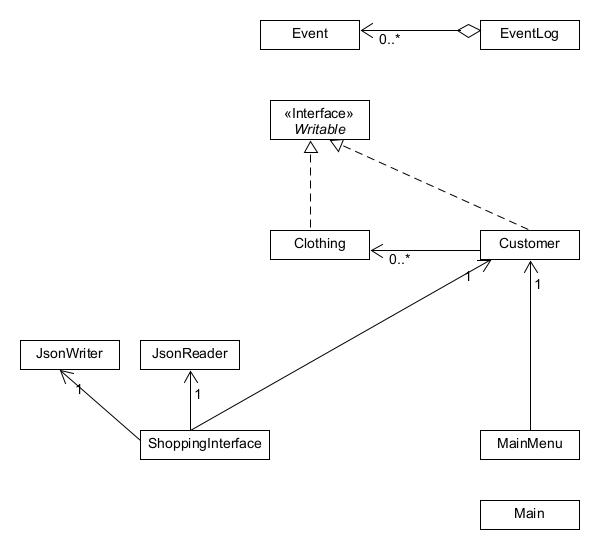
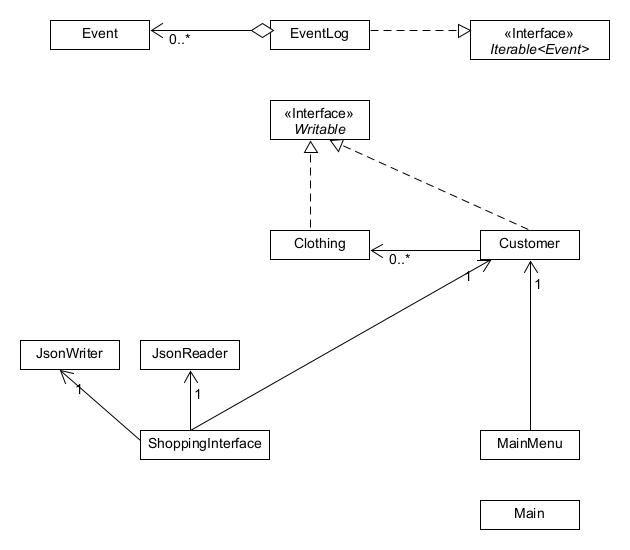
made minor changes to specifcations and UML diagram

diff --git a/src/main/model/Customer.java b/src/main/model/Customer.java
@@ -31,7 +31,7 @@ public class Customer implements Writable {
     }
 
     //MODIFIES: this
-    //EFFECTS: adds clothing item to customer's cart
+    //EFFECTS: adds clothing item to customer's cart, logs when action occurs
     public void addToCart(Clothing item) {
         this.cart.add(item);
         EventLog.getInstance().logEvent(new Event(item.getNameOfItem() + "-"
@@ -40,7 +40,7 @@ public class Customer implements Writable {
 
     //REQUIRES: shopping cart is not empty
     //MODIFIES: this
-    //EFFECTS: removes item in customer's cart
+    //EFFECTS: removes item in customer's cart, logs when action occurs
     public void removeInCart(Clothing item) {
         this.cart.remove(item);
         EventLog.getInstance().logEvent(new Event(item.getNameOfItem() + "-"
@@ -52,6 +52,7 @@ public class Customer implements Writable {
         return cart;
     }
 
+    //EFFECTS: returns an unmodifiable list of items in cart, logs when action occurs
     public List<Clothing> viewCartPage() {
         EventLog.getInstance().logEvent(new Event("Cart has been opened"));
         return Collections.unmodifiableList(cart);
@@ -68,7 +69,7 @@ public class Customer implements Writable {
 
     //REQUIRES: Cart to be not empty
     //MODIFIES: this
-    //EFFECTS: removes all items from cart
+    //EFFECTS: removes all items from cart, logs when action occurs
     public void emptyCart() {
         cart.clear();
         EventLog.getInstance().logEvent(new Event("Cart has been cleared"));

diff --git a/src/main/ui/MainMenu.java b/src/main/ui/MainMenu.java
@@ -201,6 +201,7 @@ public class MainMenu extends JFrame {
     }
 
     //EFFECTS: creates a exit button on the main page, if pressed it will close the program
+    // once program is closed, a event log of actions will be returned
     private JButton createExitButton() {
         JButton exit = new JButton("Exit");
         exit.setBounds(775, 30, 70, 30);

diff --git a/README.md b/README.md
@@ -56,7 +56,7 @@ Sun Mar 31 21:25:49 PDT 2024
 Cart has been cleared
 
 **Phase 4: Task 3**
-My MainMenu class can be significantly improved by following the Single Responsbiltiy Principle. In this class, 
+My MainMenu class can be significantly improved by following the Single Responsibility Principle. In this class, 
 buttons, labels, event handling are all contained in one class. This violates SRP since the MainMenu class has 
 more than one responsibility. For the components such as buttons, labels, and frames, I could create a separate 
 class that is only responsible for creating these UI components. Within this class I would have methods called 
